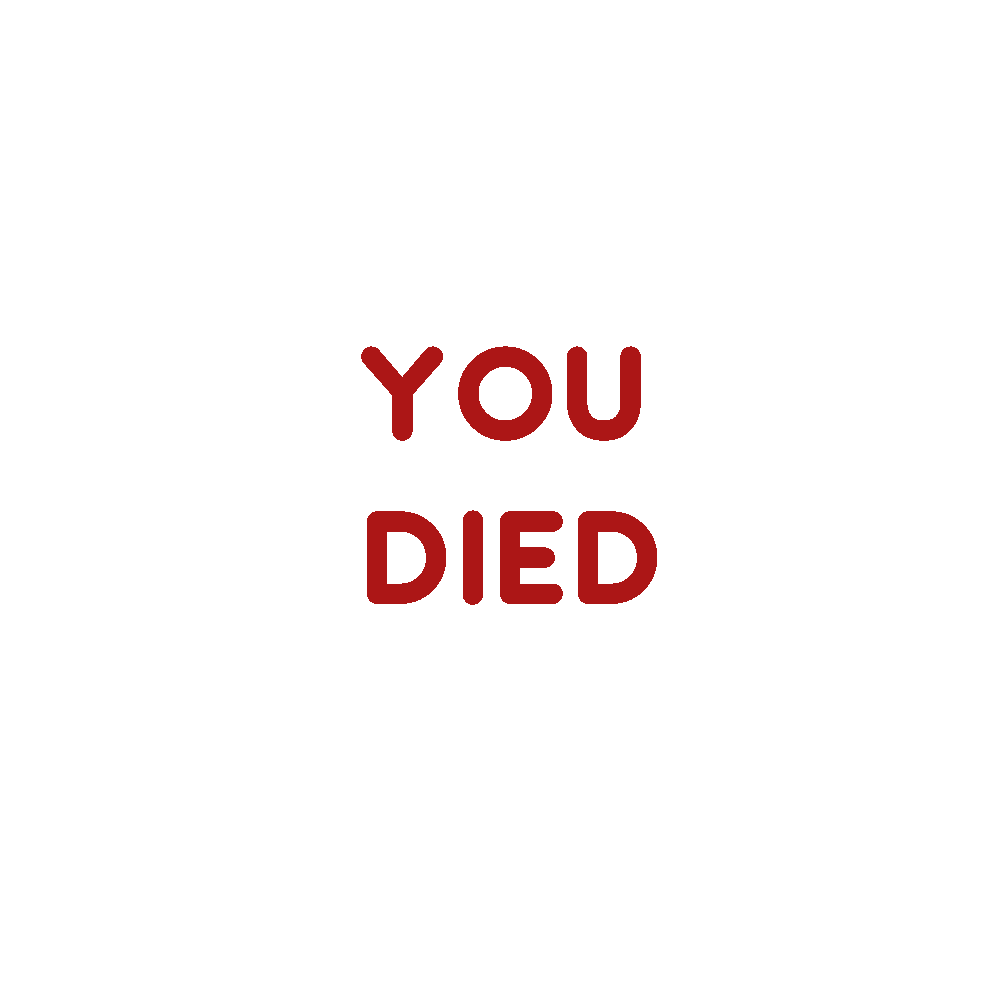
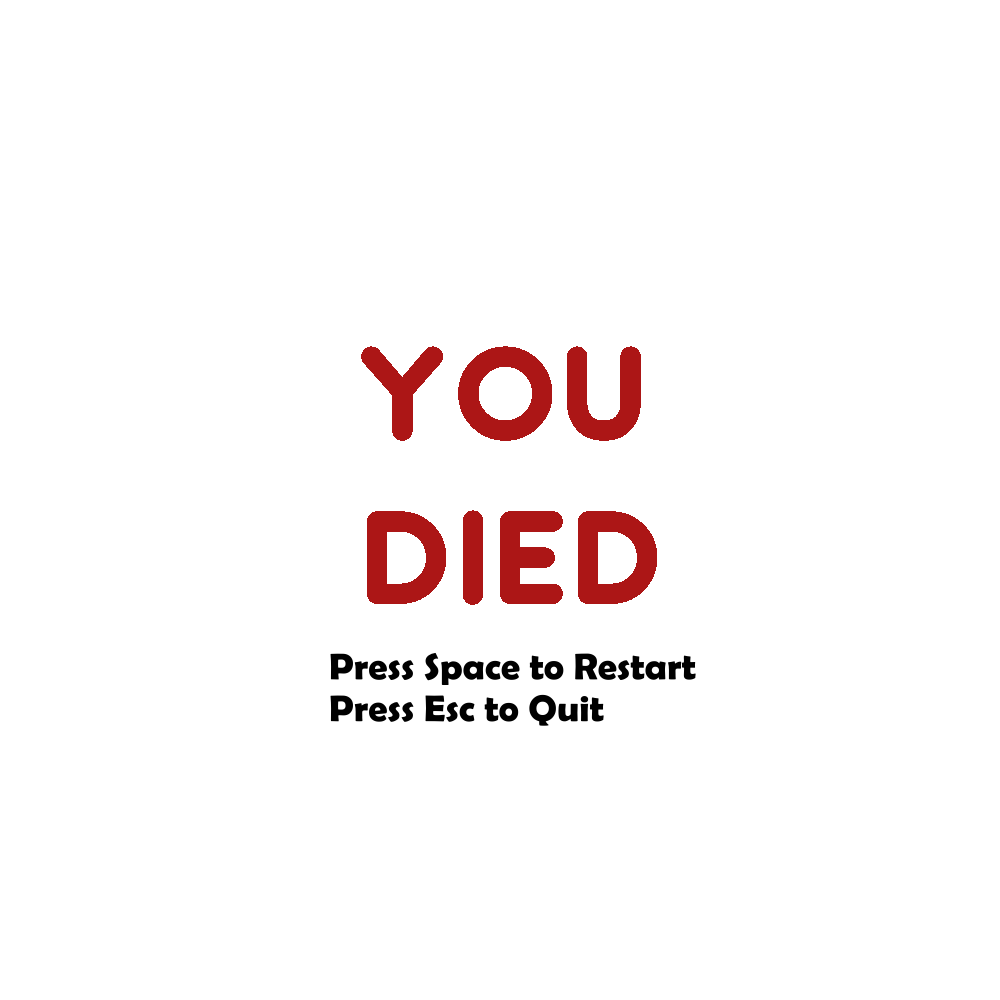
win screen implemented
i dont know if it still crashes when you pick up all the coins still

Changed region(s): [[0.31, 0.651, 0.713, 0.744]]

diff --git a/projects/PlayChase/src/main.cpp b/projects/PlayChase/src/main.cpp
@@ -432,7 +432,7 @@ int main() {
 		Texture2D::sptr title = Texture2D::LoadFromFile("images/title_transparent_info.png");
 		Texture2D::sptr pauseTex = Texture2D::LoadFromFile("images/pauseelement.png");
 		Texture2D::sptr endelement = Texture2D::LoadFromFile("images/endelement.png");
-		Texture2D::sptr winelement = Texture2D::LoadFromFile("images/title_transparent_info.png");
+		Texture2D::sptr winelement = Texture2D::LoadFromFile("images/winelement.png");
 
 		Texture2D::sptr dep = Texture2D::LoadFromFile("images/deposit.png");
 		Texture2D::sptr scrn = Texture2D::LoadFromFile("images/screens/screen9.png");
